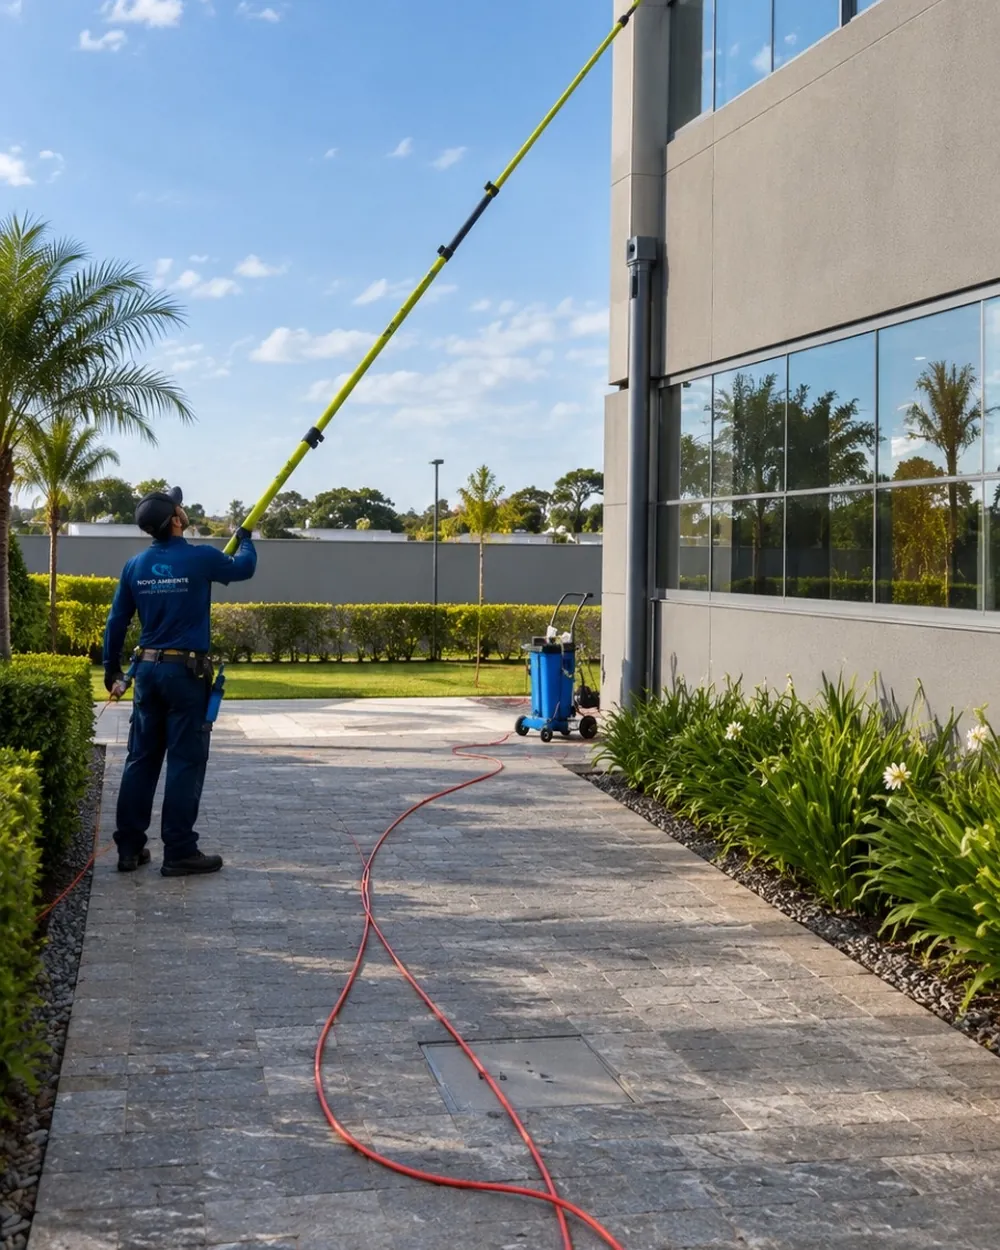
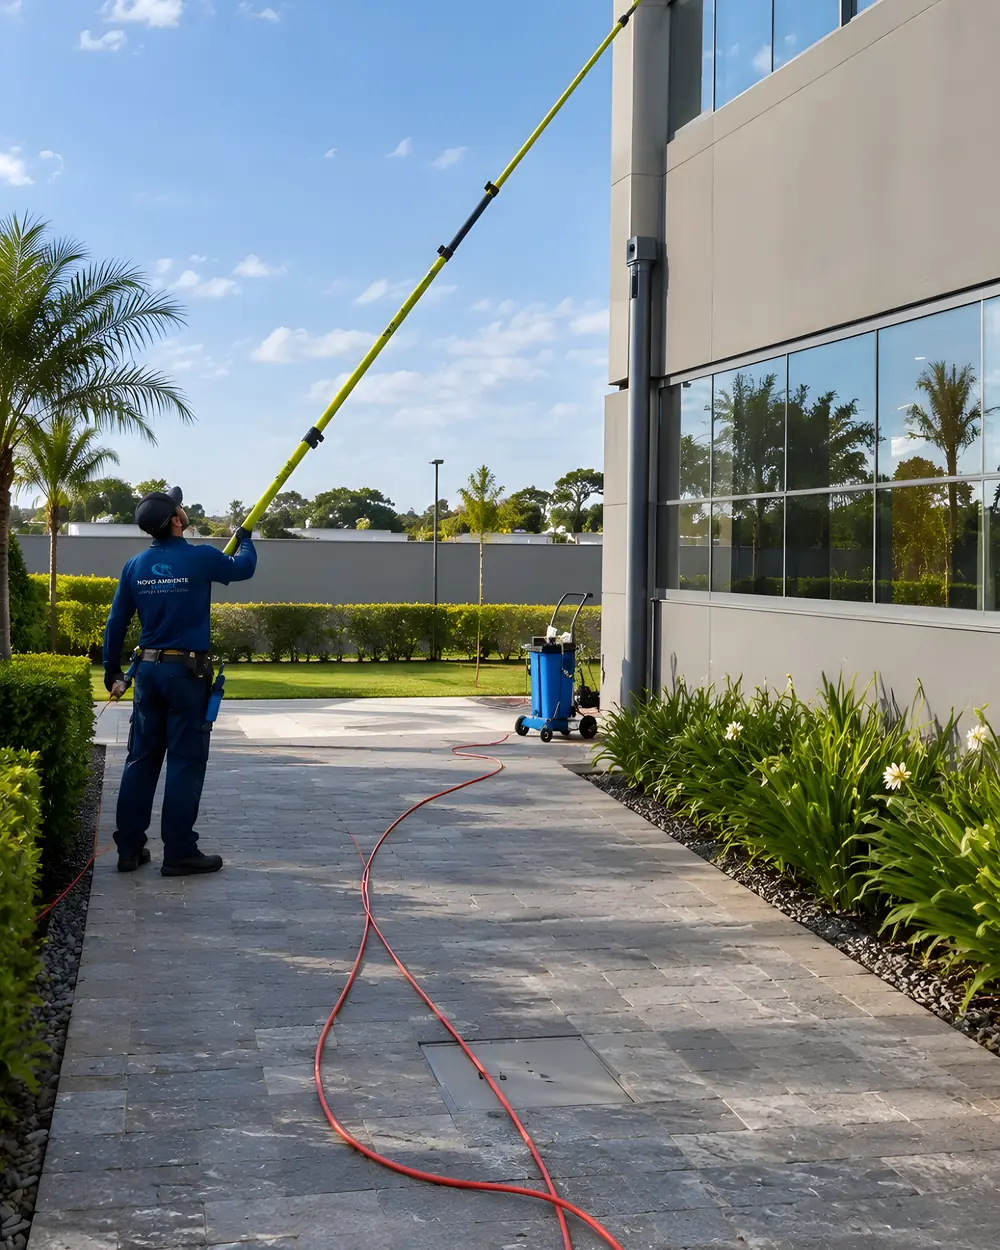
Polida final (18/11): fotos deles em alta resolucao com Real-ESRGAN (mesma imagem, sem redesenhar), CSS num arquivo so, botoes de 2 linhas centralizados, respiro entre termos e botao na placa solar, titulo de vidros sem quebra no meio da frase, contraste do botao do topo sobre a foto, sacada sem e/o

diff --git a/estilo.css b/estilo.css
@@ -55,7 +55,7 @@ p, dl, dd, ol, ul, figure { margin: 0; }
 /* ---------- botões e links ---------- */
 .botao {
   display: inline-flex; align-items: center; justify-content: center; gap: .75rem; min-height: 3.25rem; padding: .75rem 1.5rem;
-  border-radius: 8px; font: 500 .8125rem/1.2 var(--sans); letter-spacing: .05em; text-transform: uppercase; text-decoration: none;
+  border-radius: 8px; font: 500 .8125rem/1.3 var(--sans); letter-spacing: .05em; text-transform: uppercase; text-decoration: none; text-align: center; text-wrap: balance;
   transition: background-color .3s var(--sai), color .3s var(--sai);
 }
 .botao svg { width: 1.05rem; height: 1.05rem; flex: none; transition: transform .35s var(--sai); }
@@ -90,6 +90,8 @@ p, dl, dd, ol, ul, figure { margin: 0; }
 .botao-topo { min-height: 2.75rem; padding: .5rem 1rem; color: inherit; box-shadow: inset 0 0 0 1px currentColor; }
 .botao-topo svg { width: .95rem; height: .95rem; }
 .botao-topo:hover { background: var(--off); color: var(--marinho); box-shadow: inset 0 0 0 1px var(--off); }
+/* 18/11: sobre a foto clara (vitrine) o contorno sozinho dava 2,7:1; o véu marinho segura a leitura */
+.topo:not(.solido) .botao-topo:not(:hover) { background: rgba(8, 25, 42, .55); }
 @media (min-width: 62rem) { .topo nav { display: flex; } }
 .topo.solido { background: var(--off); color: var(--marinho); box-shadow: 0 1px 0 var(--linha); }
 .topo.solido .logo-clara { opacity: 0; }

diff --git a/site/servico.css b/site/servico.css
@@ -132,6 +132,8 @@
 @media (min-width: 62rem) { .sv-tipos .b-servicos:has(> li:nth-child(2):last-child) { grid-template-columns: repeat(2, 1fr); } }
 .sv-tipos .b-servicos:has(> li:nth-child(2):last-child) .botao { width: 100%; justify-content: center; text-align: center; }
 .sv-tipos .b-servicos:has(> li:nth-child(2):last-child) .b-servico-texto { align-items: stretch; }
+/* 18/11: os termos encostavam no botão; o respiro fica fixo e o botão desce pro pé do cartão */
+.sv-tipos .b-servicos:has(> li:nth-child(2):last-child) .termos { margin-bottom: auto; padding-bottom: 1.5rem; }
 
 /* fachada: "Pra quem limpamos" com a indústria, em 4 */
 @media (min-width: 48rem) { .b-cartoes-3.sv-quem-4 { grid-template-columns: repeat(2, 1fr); } }
